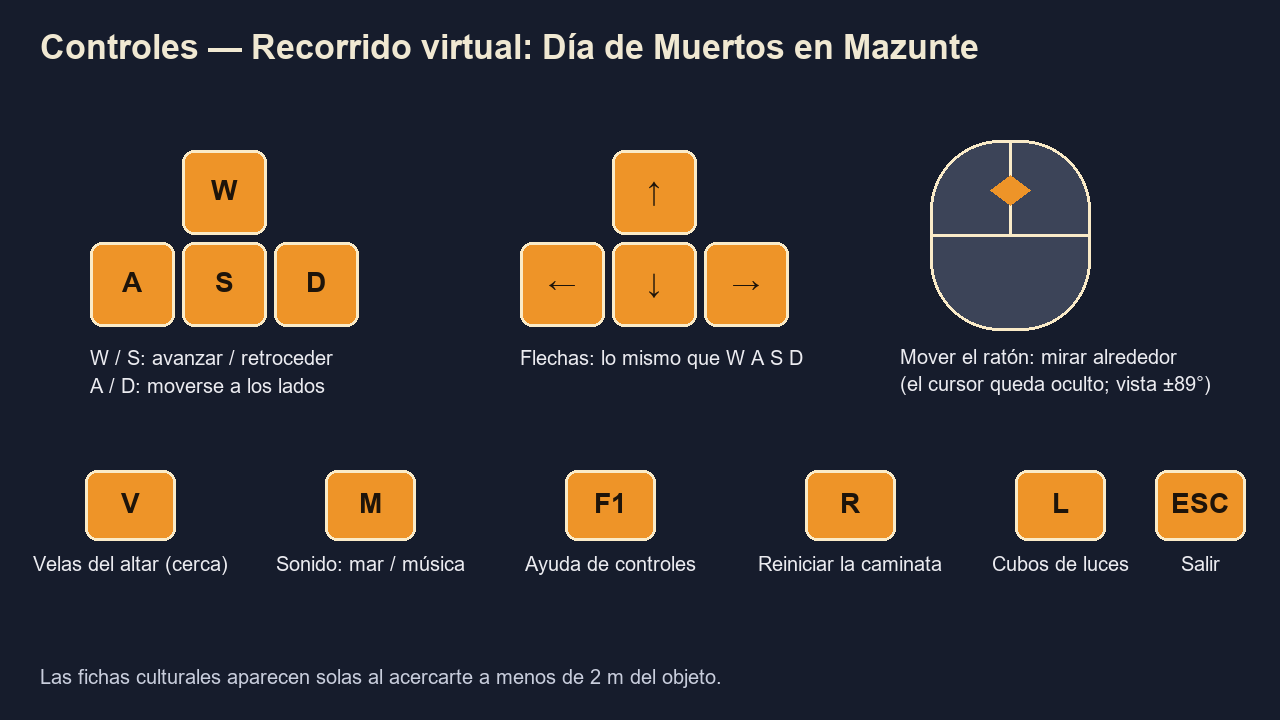
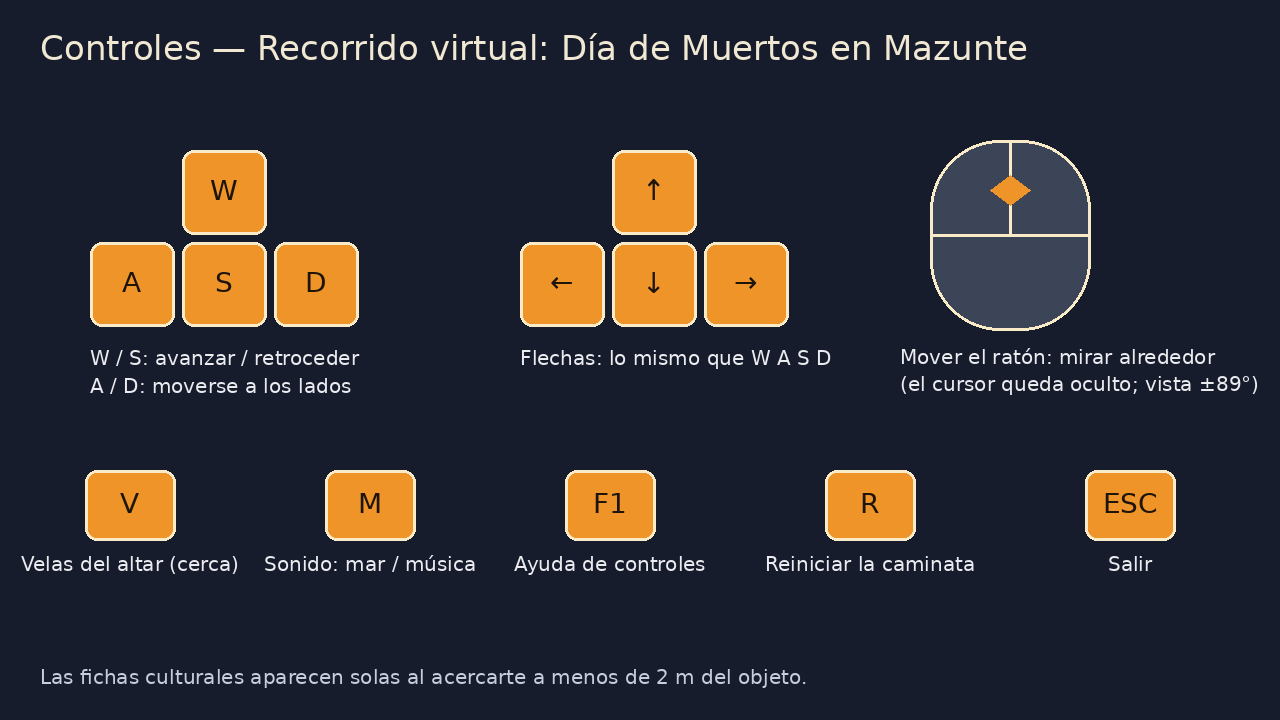
E-6 · Manual sin L ni teclas de depuración (decisión X-61); esquema del teclado regenerado

diff --git a/tools/x15_esquema_teclado.py b/tools/x15_esquema_teclado.py
@@ -41,9 +41,8 @@ def tecla_nota(cx, w, txt, nt):
 tecla_nota(130, 90, "V", "Velas del altar (cerca)")
 tecla_nota(370, 90, "M", "Sonido: mar / música")
 tecla_nota(610, 90, "F1", "Ayuda de controles")
-tecla_nota(850, 90, "R", "Reiniciar la caminata")
-tecla_nota(1060, 90, "L", "Cubos de luces")
-tecla_nota(1200, 90, "ESC", "Salir")
+tecla_nota(870, 90, "R", "Reiniciar la caminata")
+tecla_nota(1130, 90, "ESC", "Salir")
 nota(40, 665, "Las fichas culturales aparecen solas al acercarte a menos de 2 m del objeto.", (200, 205, 220))
 im.save("docs/manual_usuario/capturas/02_teclado_controles.png")
 print("ok")

diff --git a/docs/ESTADO_PROYECTO.md b/docs/ESTADO_PROYECTO.md
@@ -122,7 +122,7 @@ Antes: fachada esc. 3.0 (~7.6 m de alto) y "altar" esc. 3.5 (6.6 m de alto).
 | E-3 | Release x64 autónomo en `dist/` con sus .dll | 56 | El .exe corre en otra PC sin Visual Studio; `dist/` incluye `Models/`, `Shaders/` y las DLL; se publica como .zip en el Release (decisión del 19/10), no en Git | 🟡 PR #21 (fusionado): `tools/empaquetar_release.ps1` (compila Release x64, arma `dist/NierikaStudio/` y genera `dist/NierikaStudio_<fecha>.zip`). **Ejecutado por D2 en su PC (04/11, captura de D2):** compila, copia 8 DLL de `build/x64/Release/` y crea `NierikaStudio_2026-11-04.zip` (21.3 MB); D2 dice que el .exe funciona al descomprimirlo **en otra carpeta de la misma PC** (según D2, sin captura). **Falta** la prueba en una PC sin Visual Studio, que es el criterio de E-3: sigue 🟡 hasta entonces |
 | E-4 | 3 videos MP4 | 57 | Entorno; recorrido; animaciones e interactividad | 🔄 12/11, rama `feature/e-4-videos`: **guiones y guía listos; los videos NO están grabados** (el hilo no puede grabar). `docs/videos/` con `README.md` (tabla de enlaces), `GUION_1_entorno.md`, `GUION_2_recorrido.md`, `GUION_3_animaciones.md` y `GUIA_GRABACION_OBS.md`. **Verificado por lectura:** controles, posición de inicio (0, 1.6, 6) mirando a −z, silueta de 18.33 s que arranca sola en la orilla y tecla **R**, posiciones de fichas, valores de las animaciones (de `justificacion_*.md`). **Inferido:** duraciones, tiempos de cada tramo y los ajustes de OBS (de memoria, sin probar en el equipo de D2). **Falta (D2):** grabar con OBS en Release x64, editar, subir y poner los enlaces en `docs/videos/README.md`; antes, confirmar el conteo de animaciones (la llama cuenta dentro de «velas») |
 | E-5 | Manual técnico (ES + EN) | 58 | Arquitectura, cronograma, RACI, justificación, conclusiones | 🔄 12/11, rama `feature/e-5-manual-tecnico` (el manual estaba escrito con el estado del 04/11): **§2 Arquitectura** reescrita con el estado real de cada módulo, la tabla de código con las líneas medidas (`wc -l`) y el ciclo de render actual; **§6 Modelos y recursos** con una tabla de los 23 modelos del inventario **calculada de los archivos** (triángulos, vértices, dimensiones en metros, `.blend` presente y tamaño de cada textura) con el script nuevo `tools/e5_tabla_modelos.py`. **Hallazgos al calcularla:** los 23 tienen `.obj` y `.blend`; `laminado1.jpg` (fachada y techo) mide 512×512, no 1K; 12 de los 23 siguen 🔄 en el ESTADO. **12/11 (hora de México), rama `feature/e-5-manual-tecnico-completo`:** §1, §3, §4 (avance real por tarea con PR), §5 (registro real: solo lo que consta en el repo), §7 (resumen de las 5 animaciones con valores del ESTADO §5 y enlaces a las 2 justificaciones), §8 (problemas al 12/11, tabla de FPS vacía para D2), §9 (borrador honesto con lecciones y nota de IA propuestas), §10, §11 y README actualizados; §6 regenerada con `tools/e5_tabla_modelos.py` tras fusionar B-12; **versión en inglés** en `docs/manual_tecnico/en/` (§1–§11 traducidas; **las 2 justificaciones matemáticas completas siguen solo en español**); script `tools/e5_exportar_pdf.sh` (pandoc + LibreOffice; PDF de 50 páginas generado, sin estilo definitivo y no versionado). **Sigue pendiente (necesita personas):** RACI real y horas (D1 y D2), FPS medidos y capturas en la PC de D2, figuras de arquitectura, referencias de GLEW/GLM/vcpkg/SOIL2 y de slerp/Bézier/Perlin, traducir las justificaciones, estilo final del PDF |
-| E-6 | Manual de usuario (ES + EN) | 59 | Capturas y explicación de controles | 🔄 12/11, rama `feature/e-6-manual-usuario` (el manual estaba escrito con el estado del 04/11): actualizados **§1** (posición de inicio real (0, 1.6, 6), audio opcional), **§2** (velocidad 2.0 m/s, caminata en el plano, colisiones, tecla **R**), **§3** (las 5 paradas con lo que existe hoy y qué hace la silueta), **§4** (fichas con su regla de proximidad y posiciones; audio con sus volúmenes, **sin** afirmar cómo suena) y **§5** (problemas frecuentes reales), con **6 capturas** de la escena (`docs/manual_usuario/capturas/*.jpg`, tomadas en Linux con Mesa y el código de los PR abiertos de B-13, D-5, E-2, C-6 y B-12). **12/11 (hora de México), rama `feature/e-6-manual-usuario-completo`:** quitado el lenguaje de «PR abiertos» (B-13, D-5, E-2 y C-6 ya están en `develop`), anotado que **E-2 no retiró las teclas de depuración** (`T G Y H U J`, `1–6` siguen en `main.cpp`; decisión pendiente de D2) y agregada la **versión en inglés** completa en `docs/manual_usuario/en/` (5 secciones + README; PDF de 9 páginas probado con `tools/e5_exportar_pdf.sh`, del PR de E-5). **Sigue pendiente (necesita a D2):** repetir las 6 capturas en su PC y tomar las 3 faltantes (teclado en GIMP, luces con espacio y con L), §1.3 «cómo abrirlo» (espera el `.zip` probado de E-3/E-7), decidir las teclas de depuración y las filas «sin probar» de §5, compilar las fichas con ImGui, y el estilo final del PDF · **17/11, rama `feature/e-6-manual-capturas`:** capturas repetidas en la PC de D2 con `develop` (PR #131) y texto de §2 a §4 puesto al día (V, M, F1, 13 fichas, audio por zonas); sin /verificar; falta la captura de L y D2 decide L y las teclas de depuración |
+| E-6 | Manual de usuario (ES + EN) | 59 | Capturas y explicación de controles | 🔄 12/11, rama `feature/e-6-manual-usuario` (el manual estaba escrito con el estado del 04/11): actualizados **§1** (posición de inicio real (0, 1.6, 6), audio opcional), **§2** (velocidad 2.0 m/s, caminata en el plano, colisiones, tecla **R**), **§3** (las 5 paradas con lo que existe hoy y qué hace la silueta), **§4** (fichas con su regla de proximidad y posiciones; audio con sus volúmenes, **sin** afirmar cómo suena) y **§5** (problemas frecuentes reales), con **6 capturas** de la escena (`docs/manual_usuario/capturas/*.jpg`, tomadas en Linux con Mesa y el código de los PR abiertos de B-13, D-5, E-2, C-6 y B-12). **12/11 (hora de México), rama `feature/e-6-manual-usuario-completo`:** quitado el lenguaje de «PR abiertos» (B-13, D-5, E-2 y C-6 ya están en `develop`), anotado que **E-2 no retiró las teclas de depuración** (`T G Y H U J`, `1–6` siguen en `main.cpp`; decisión pendiente de D2) y agregada la **versión en inglés** completa en `docs/manual_usuario/en/` (5 secciones + README; PDF de 9 páginas probado con `tools/e5_exportar_pdf.sh`, del PR de E-5). **Sigue pendiente (necesita a D2):** repetir las 6 capturas en su PC y tomar las 3 faltantes (teclado en GIMP, luces con espacio y con L), §1.3 «cómo abrirlo» (espera el `.zip` probado de E-3/E-7), decidir las teclas de depuración y las filas «sin probar» de §5, compilar las fichas con ImGui, y el estilo final del PDF · **17/11, rama `feature/e-6-manual-capturas`:** capturas repetidas en la PC de D2 con `develop` (PR #131) y texto de §2 a §4 puesto al día (V, M, F1, 13 fichas, audio por zonas); sin /verificar; D2 decidió quitar L y las teclas de depuración (X-61, PR aparte): el manual ES/EN ya no las cita y se borró `02_luces_L.jpg`; **falta recapturar `02_ayuda_F1.jpg`** (la actual muestra la línea de L) con una compilación de X-61 en la PC de D2 |
 | E-7 | Release en GitHub y entrega | 60 | Release final y enlaces | 🔄 12/11, rama `feature/e-7-release`: **preparado, no publicado.** `docs/entrega/` nuevo con `LEEME_PAQUETE.txt` (va dentro del .zip como `LEEME.txt`), `NOTAS_RELEASE.md` (borrador del texto del Release, con los límites conocidos) y `LISTA_VERIFICACION.md` (pasos A–E con dónde correr cada uno). `tools/empaquetar_release.ps1` ahora copia el LEEME, comprueba el contenido mínimo, escribe el `.sha256` y tiene el interruptor opcional `-SinModelosSinUsar` (ver decisión 12/11). **Verificado por lectura:** `main.cpp` no carga `Models/altar/` ni `Models/pan/` (12 MB); la lista de archivos mínimos sale de las rutas de `main.cpp`. **No verificado:** el script modificado **no se ejecutó** (sin PowerShell ni Windows en el hilo). **Falta (D2, en su PC):** correr el script, probar el .zip en otra PC (cierra E-3), PR `develop` → `main`, crear el tag `v1.0.0` y el Release con el .zip, y decidir público/privado |
 
 ### Tareas sueltas (sin bloque)

diff --git a/docs/manual_usuario/capturas/README.md b/docs/manual_usuario/capturas/README.md
@@ -7,7 +7,7 @@ Todas las capturas son del programa propio; **la capilla provisional no sale en 
 | Archivo | Qué muestra | Sección | Estado |
 |---|---|---|---|
 | `01_ventana_inicio.jpg` | Cámara al abrir el programa (con la ficha del papel picado) | 1.4 | **Repetida 17/11 en la PC de D2** |
-| `02_teclado_controles.png` | Esquema del teclado: W A S D, flechas, ratón, V, M, F1, R, L y Esc | 2.1 | **Regenerado 17/11** (`tools/x15_esquema_teclado.py`, Pillow) |
+| `02_teclado_controles.png` | Esquema del teclado: W A S D, flechas, ratón, V, M, F1, R y Esc | 2.1 | **Regenerado 17/11, sin L** (`tools/x15_esquema_teclado.py`, Pillow) |
 | `02_velas_apagadas_V.jpg` | Altar con las velas apagadas y el aviso de V | 2.4 | **Nueva 17/11** (`NIERIKA_UI=velas_apagadas`) |
 | `02_ayuda_F1.jpg` | Lista de controles de F1 | 2.4 | **Nueva 17/11** (`NIERIKA_UI=ayuda`) |
 | `03_parada1_orilla.jpg` | Orilla con velas, flores, lanchas y la silueta | 3 | **Repetida 17/11 en la PC de D2** |
@@ -16,9 +16,10 @@ Todas las capturas son del programa propio; **la capilla provisional no sale en 
 | `03_parada5_cuarto_altar.jpg` | Altar con la ficha del copal | 3, 4.1 | **Repetida 17/11 en la PC de D2** |
 | `03_parada5_altar_sin_ficha.jpg` | Altar visto desde la puerta del cuarto | 3 | **Nueva 17/11** |
 | `03_parada5_silueta_con_flor.jpg` | La silueta frente al altar (t = 22 s) | 3 | **Repetida 17/11 en la PC de D2** |
-| `02_luces_L.jpg` | Cubos de las luces (tecla L) | — | **Obsoleta, sin referencia en el manual**: es del 12/11 y `NIERIKA_LUCES` ya no existe; no se pudo retomar sin pulsar L a mano |
 
-Las `02_luces_espacio.jpg` (luces con la barra espaciadora) se **eliminaron** el 17/11: esa función ya no existe.
+Las `02_luces_espacio.jpg` (luces con la barra espaciadora) y `02_luces_L.jpg` (cubos de luces, tecla L) se **eliminaron** el 17/11: esas funciones ya no existen.
+
+**Pendiente (necesita la PC de D2):** `02_ayuda_F1.jpg` es de antes de X-61 y todavía muestra la línea «L mostrar u ocultar los cubos de las luces»; hay que recapturarla con la versión que compile X-61 (`NIERIKA_UI=ayuda`).
 
 **Cómo se hicieron (17/11):** en la PC de D2, con el *Release x64* de `develop` y el modo de captura de `src/main.cpp`:
 `NIERIKA_CAPTURAS="x,y,z,yaw,pitch,t,archivo.png;..."` (yaw −90 = mirar hacia −z; `t` = segundo de la caminata de la silueta) y, para V y F1, `NIERIKA_UI=velas_apagadas` o `NIERIKA_UI=ayuda`. Se guardan con `glReadPixels` (1280×720) y se convirtieron a JPG (calidad 88). Son tomas reales del programa, pero con la cámara colocada por código; **no** se vio a una persona pulsar las teclas.

diff --git a/docs/manual_usuario/README.md b/docs/manual_usuario/README.md
@@ -12,17 +12,17 @@
 | # | Sección | Archivo | Estado |
 |---|---|---|---|
 | 1 | Qué es el recorrido y qué necesitas | [01_inicio.md](01_inicio.md) | Real, salvo §1.3 «cómo abrirlo» (espera el `.zip` de E-3/E-7) |
-| 2 | Controles | [02_controles.md](02_controles.md) | **Real**; teclas de depuración sin decidir |
+| 2 | Controles | [02_controles.md](02_controles.md) | **Real**; solo teclas con función (X-61) |
 | 3 | El recorrido, parada por parada | [03_recorrido.md](03_recorrido.md) | Real (capturas de Linux/Mesa) |
 | 4 | Fichas culturales y audio | [04_fichas_y_audio.md](04_fichas_y_audio.md) | Real en el código; fichas sin compilar en VS; audio sin oír |
 | 5 | Problemas frecuentes | [05_problemas_frecuentes.md](05_problemas_frecuentes.md) | Parcial (filas «sin probar» marcadas) |
-| — | Capturas | [capturas/](capturas/README.md) | 10 tomadas el 17/11 en la PC de D2; la de la tecla L no se retomó |
+| — | Capturas | [capturas/](capturas/README.md) | 10 tomadas el 17/11 en la PC de D2; la de la ayuda F1 muestra aún la línea de L (ver capturas/README.md) |
 
 ## Qué falta para cerrar E-6 (necesita a una persona)
 
-1. ~~Capturas~~ **Hechas el 17/11** en la PC de D2 (ver `capturas/README.md`). Falta solo, si se quiere, una captura de las luces con L (hay que pulsar L a mano).
+1. ~~Capturas~~ **Hechas el 17/11** en la PC de D2 (ver `capturas/README.md`). **Falta recapturar `02_ayuda_F1.jpg`** con la versión de X-61 (la actual todavía muestra la línea de L).
 2. §1.3 «cómo abrirlo»: se escribe cuando exista el `.zip` probado en otra PC (E-3/E-7).
-3. D2 decide si **L** y las teclas de depuración `T G Y H U J` / `1–6` salen antes de la entrega (siguen en `main.cpp`).
+3. ~~D2 decide si L y las teclas de depuración salen~~ **Decidido 17/11 (X-61):** salen del código; el manual ya no las cita.
 4. D2 confirma o elimina las filas «sin probar» de §5 tras las pruebas de E-1 y E-3.
 5. Fichas: compilar con ImGui en VS y verificar textos y referencias contra la fuente (C-7a).
 6. Revisar el PDF generado (sin logos de la escuela ni datos personales; solo números de cuenta) y su estilo final.

diff --git a/docs/manual_usuario/02_controles.md b/docs/manual_usuario/02_controles.md
@@ -12,7 +12,6 @@
 | Velas del altar | **V** (a menos de 3 m del altar) | Enciende o apaga las velas del altar: la luz cálida y las llamas suben o bajan en un cuarto de segundo. Lejos del altar solo muestra un aviso |
 | Sonido | **M** | Cambia entre «mar y música», «solo el mar», «solo la música» y «silencio» (se avisa arriba en pantalla) |
 | Ayuda de controles | **F1** | Muestra u oculta la lista de controles |
-| Ver dónde están las luces | **L** | Muestra u oculta los cubos blancos que marcan las luces |
 | Reiniciar la silueta | **R** | La silueta vuelve a la orilla y repite su caminata y la flor |
 | Salir | **Esc** | Cierra el programa |
 
@@ -24,17 +23,9 @@ Notas verificadas en el código (`Camera.h`, `Colisiones.cpp`, `main.cpp`):
 - Desde X-60 (17/11) la **barra espaciadora ya no hace nada**: las luces de colores se quitaron (ESTADO sec. 4, 17/11).
 - Con Esc se cierra el programa directamente, sin pedir confirmación.
 
-> **Dudas para revisar con D2 antes de publicar** (no confirmadas en el código):
-> 1. La tecla **L** está descrita en el código como "ayuda de depuración". ¿Se queda para el visitante o sale antes de la entrega?
+## 2.2 Teclas sin función
 
-## 2.2 Teclas que NO entran al manual
-
-En el código existen estas teclas, pero son de **depuración** (mueven y orientan el reflector de la cruz) y
-deberían salir antes de la entrega; por eso **no se documentan para el visitante**. **E-2 no las retiró**: siguen en `main.cpp` (líneas 643–654 al 12/11) y la decisión de quitarlas queda **pendiente de D2**:
-
-`T G Y H U J` (posición del reflector) · `1 2 3 4 5 6` (dirección del reflector)
-
-Si no salen, hay que agregarlas aquí.
+Desde X-61 (17/11) se quitaron del código la tecla **L** (cubos de las luces) y las teclas de depuración del reflector de la cruz (`T G Y H U J` y `1`–`6`). La barra espaciadora tampoco hace nada. Solo funcionan las teclas de la tabla de arriba.
 
 ## 2.3 Controles futuros (PENDIENTES, no existen todavía)
 

diff --git a/docs/manual_usuario/en/02_controls.md b/docs/manual_usuario/en/02_controls.md
@@ -12,7 +12,6 @@
 | Altar candles | **V** (within 3 m of the altar) | Turns the altar candles on or off: the warm light and the flames fade in or out in a quarter of a second. Away from the altar it only shows a notice |
 | Sound | **M** | Cycles through "sea and music", "sea only", "music only" and "silence" (a notice appears at the top of the screen) |
 | Controls help | **F1** | Shows or hides the list of controls |
-| See where the lights are | **L** | Shows or hides the white cubes that mark the lights |
 | Restart the silhouette | **R** | The silhouette returns to the shore and repeats its walk and the flower |
 | Quit | **Esc** | Closes the program |
 
@@ -24,16 +23,9 @@ Notes verified in the code (`Camera.h`, `Colisiones.cpp`, `main.cpp`):
 - Since X-60 (Nov 17) the **space bar does nothing**: the colored lights were removed (ESTADO sec. 4, Nov 17).
 - Esc closes the program directly, with no confirmation.
 
-> **Questions to review with D2 before publishing** (not confirmed in the code):
-> 1. Key **L** is described in the code as a "debug aid". Does it stay for the visitor or go before delivery?
+## 2.2 Keys without a function
 
-## 2.2 Keys that do NOT go in the manual
-
-These keys exist in the code but are for **debugging** (they move and aim the cross spotlight) and should leave before delivery, so they are **not documented for the visitor**. **E-2 did not remove them**: they are still in `main.cpp` (lines 643–654 on Nov 12) and the decision to remove them is **pending with D2**:
-
-`T G Y H U J` (spotlight position) · `1 2 3 4 5 6` (spotlight direction)
-
-If they do not leave, they must be added here.
+Since X-61 (Nov 17) the code no longer has key **L** (light cubes) or the debug keys for the cross spotlight (`T G Y H U J` and `1`–`6`). The space bar does nothing either. Only the keys in the table above work.
 
 ## 2.3 Other behavior
 
